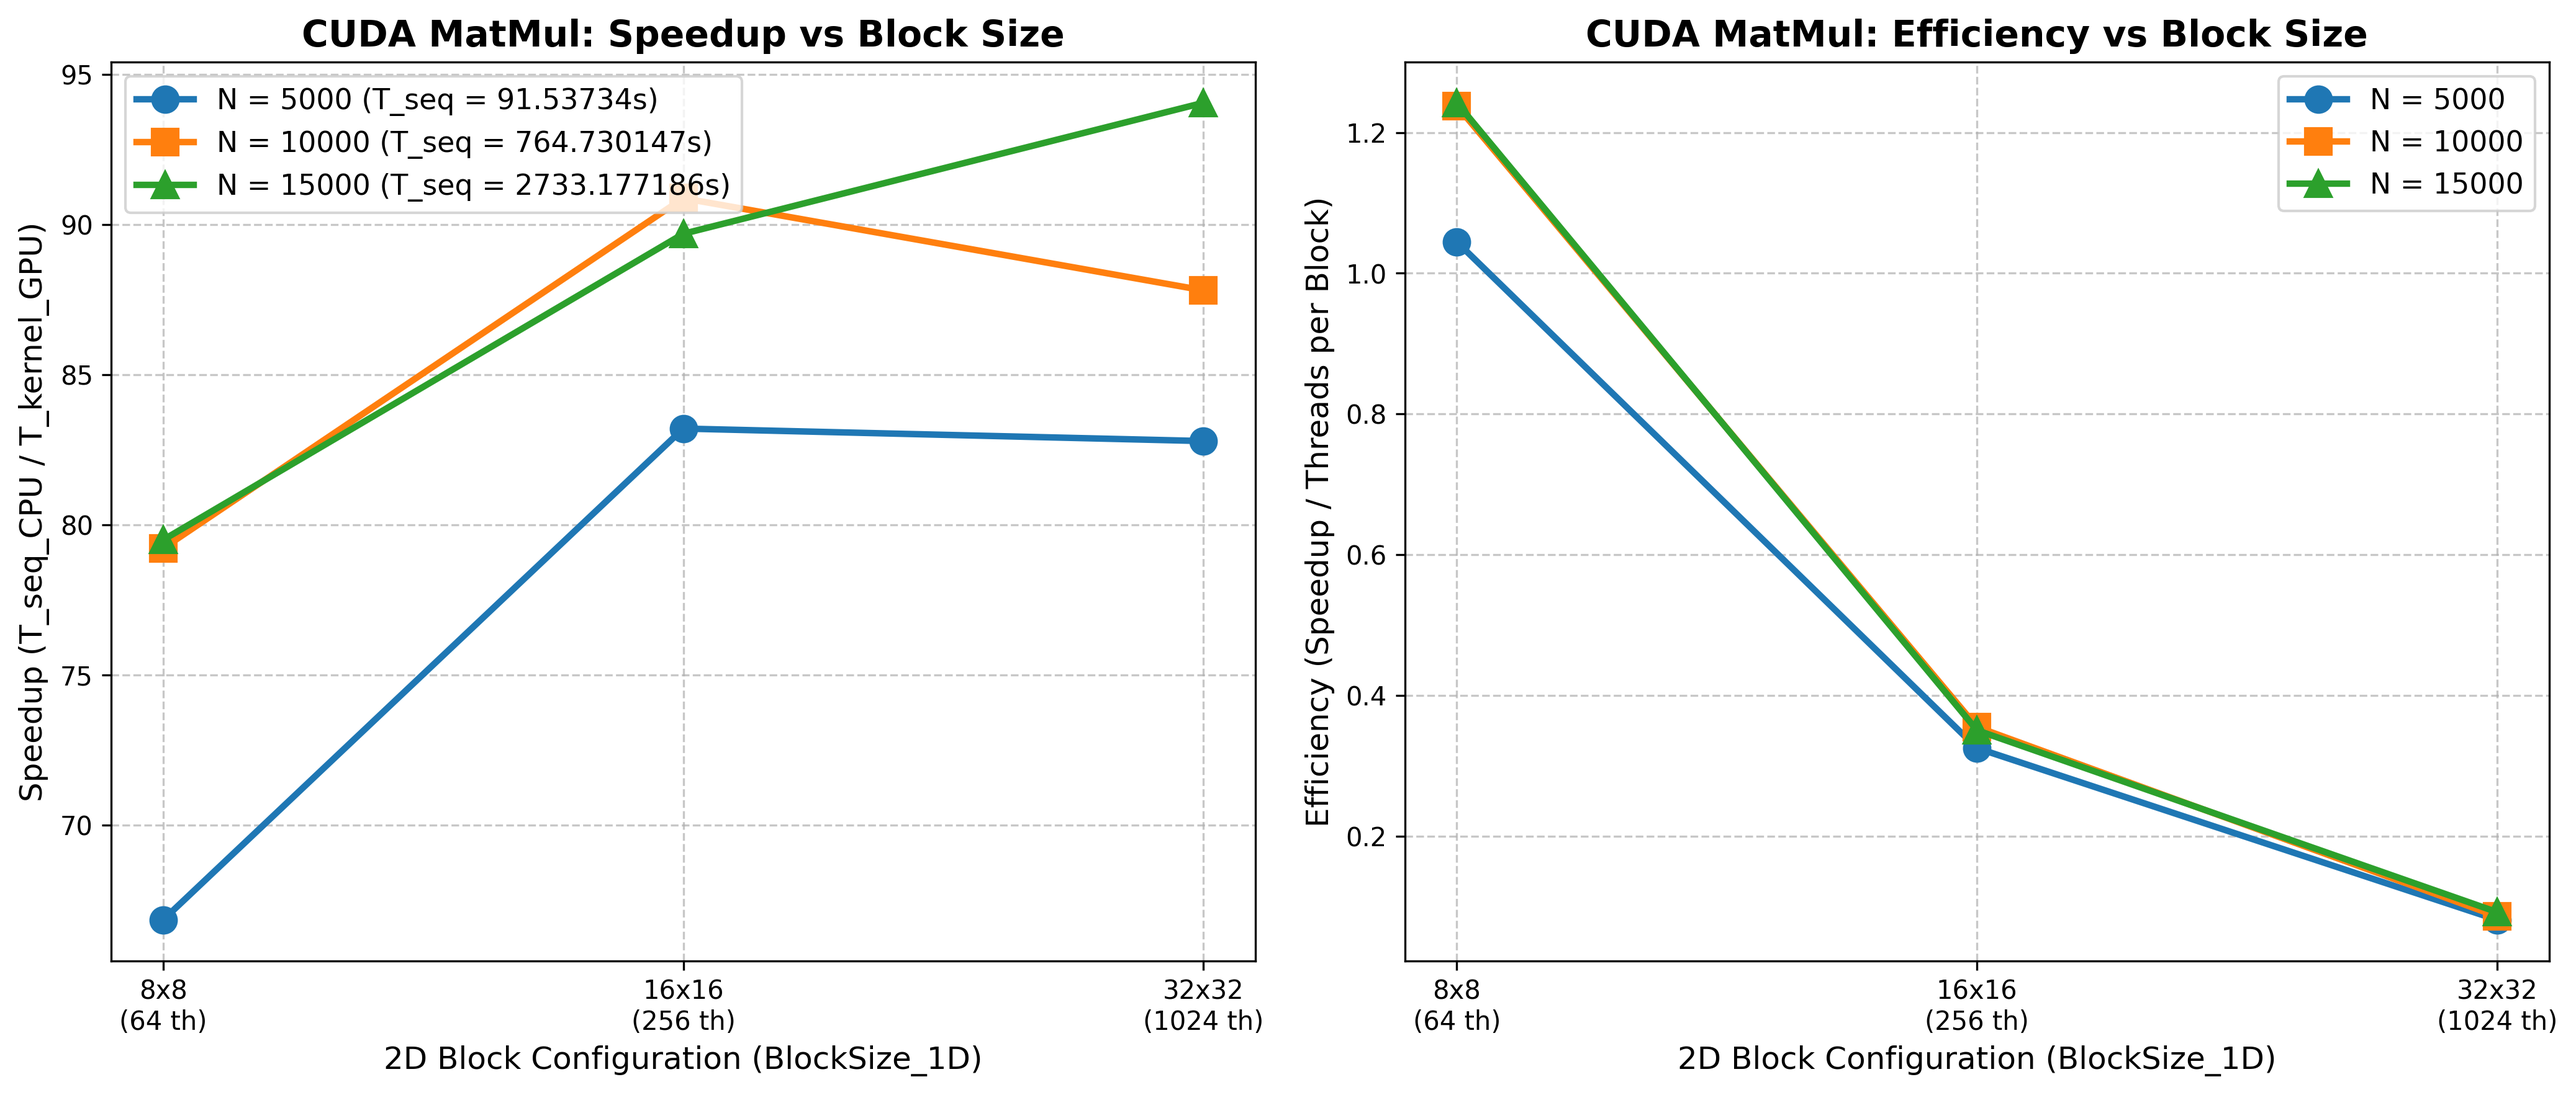
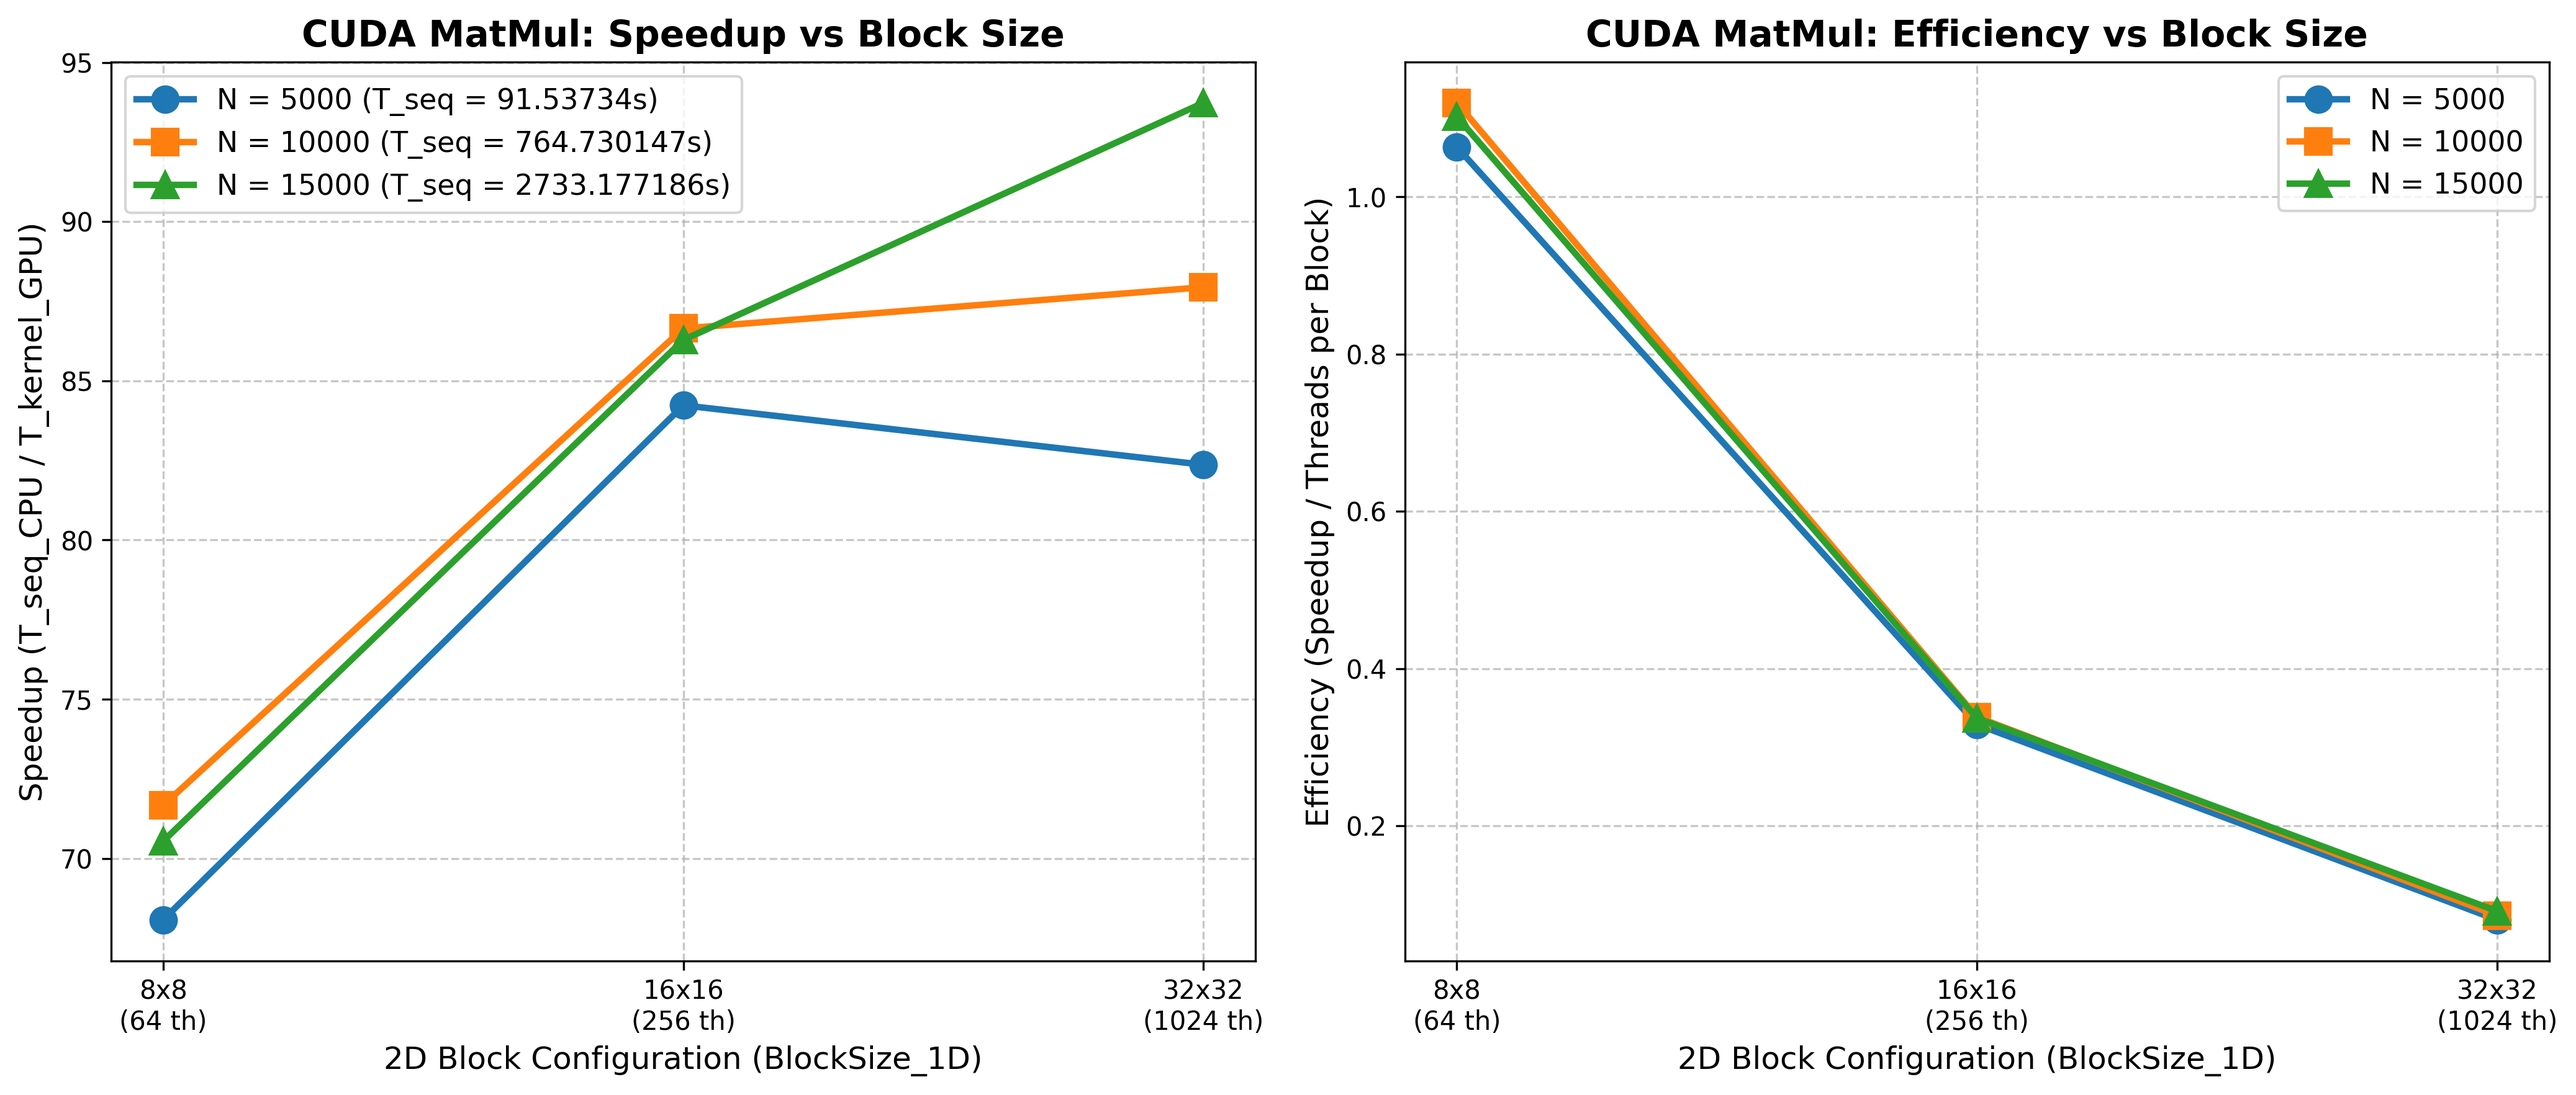
updated cuda results

diff --git a/report.md b/report.md
@@ -284,34 +284,6 @@ Regarding the experiments, I conclude that the parallel computation achieved a g
 
 ## CUDA
 
-La divisione serve a rendere il tuo codice scalabile. Se compri una GPU con pochi SM, i blocchi verranno eseguiti in sequenza. Se domani compri una GPU potentissima con 100 SM, la stessa identica griglia eseguirà moltissimi blocchi in parallelo. Il blocco è l'"unità di lavoro" che l'hardware distribuisce.
-
- Cosa succede fisicamente sull'Hardware?
-Questa è la traduzione tra il codice che scrivi e il silicio della tua Tesla T4:
-
-Lancio: La CPU invia la Grid alla GPU.
-
-Assegnazione dei Blocchi: Lo scheduler globale della GPU prende i Blocchi interi e li distribuisce agli Streaming Multiprocessors (SM) disponibili (la T4 ne ha 40).
-
-Regola d'oro: Un blocco, una volta assegnato a un SM, non si muove più fino alla fine del suo lavoro.
-
-Esecuzione a Warp (I Thread): All'interno dell'SM, i thread del tuo blocco non partono tutti a casaccio. Vengono raggruppati in mazzetti di 32 thread chiamati Warp. Tutti e 32 i thread di un Warp eseguono fisicamente la stessa identica istruzione nello stesso momento, ciascuno sui propri dati.
-
-Quindi, non decidi "la dimensione logica dei dati", ma decidi la geometria dei tuoi lavoratori. Se devi processare una matrice, è comodo creare una Grid 2D di Blocchi 2D, in modo che le coordinate dei lavoratori corrispondano fisicamente alle coordinate delle celle della matrice.
-
-![alt text](snap/image.png)
-
-
-concetto grid stride quand i dati sono enormi e si creano tanti blocchi, o thread  si suddividono gli elementi di tutti i blocchi, 
-importatne non creare blocchi piu gorssi dei valore segnato dalla gpu (max thread x block)
-
-Un blocco è indivisibile. Quando l'hardware deve eseguire un blocco, deve assegnarlo per intero a un singolo SM. Non può prendere un blocco, tagliarlo a metà e darne un pezzo all'SM 1 e un pezzo all'SM 2
-
-un blocco deve stare nel SM e ci rimane finche i thread non finiscono il lavoro
-
-warp divergence: se i thread del warp divergono e fanno coe diverse dagli altri il warp non puo sdoppiarsi e quindi vengono eseguiti in modo sequenziale!!!!!
-
-
 
 soluzione pensata:
 blocchi bidimensionali multipli del warp così vengono usati a pieno i warp, costruzione griglia di blocchi bidimensionale (256 thread),
